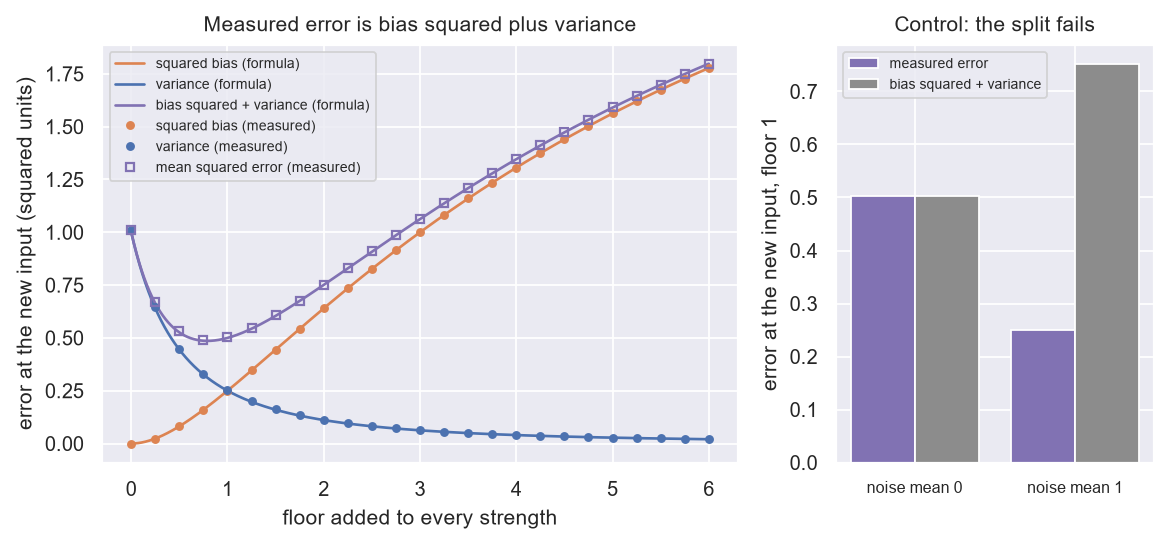
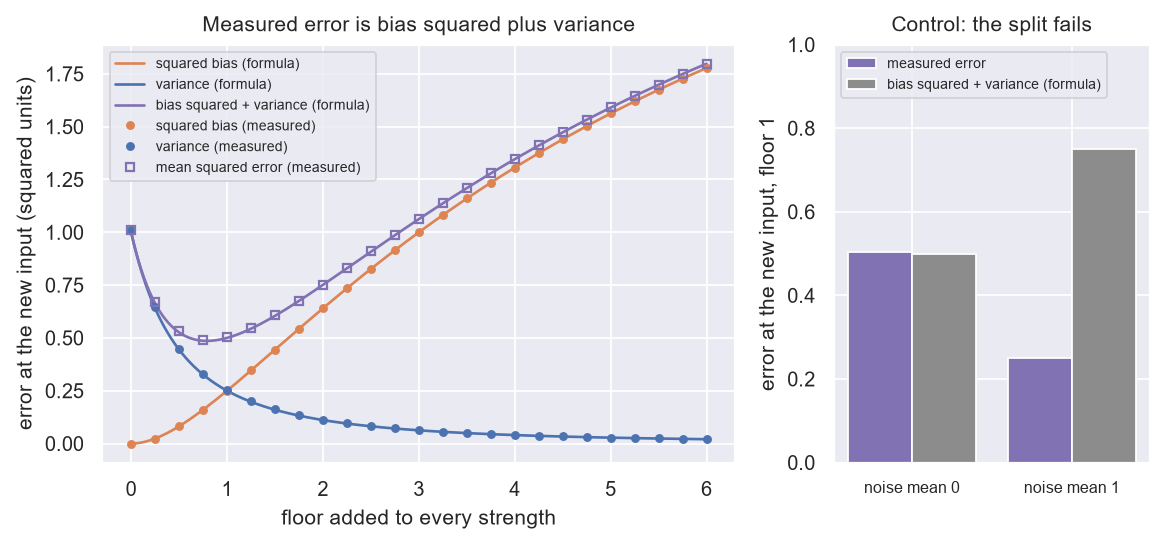
Chapter 43 notebook: fixes from the second reader; proposal updated

diff --git a/book/43-bias-and-variance.md b/book/43-bias-and-variance.md
@@ -60,7 +60,7 @@ term is `±1 / 4`, so the variance is `1 / 4² = 0.0625`. The bias grows
 down the table and the variance shrinks. Their sum falls and then rises.
 That is the old U-shaped curve, with the floor as its dial.
 
-**Measured** over 40 000 redraws of the noise, the points sit on the formula curves, and the measured error sits on the sum of bias squared and variance:
+**Measured** over 40 000 redraws of the noise, the points sit on the formula curves. The right panel compares the measured error at floor 1 with bias squared plus variance from the formulas (0.503 against 0.500), and shows the same comparison failing when the noise part has mean 0.5 (0.250 against 0.750):
 
 ![Squared bias, variance and measured error against the floor, formula curves with measured points on top, and a control where the noise has mean 1 beside the zero-mean case](figures/43-bias-plus-variance.png)
 
@@ -186,18 +186,23 @@ An experiment is evidence, not a proof.
   evidence. The measured bias below is the test.
 - **The sum.** At 25 floors from 0 to 6, with 40 000 noise draws each, the
   measured bias, variance and mean squared error stay within 0.10, 1.57 and 1.58
-  standard errors of the formulas.
+  standard errors of the formulas. The same noise draws serve all 25 floors, so
+  these 25 comparisons are correlated, not independent.
 - **The table.** Fitted, the table rows are: floor 0, bias `−0.0005`, variance
   `1.0112`, error `1.0112`. Floor 1: `−0.5003`, `0.2528`, `0.5031`. Floor 3:
   `−1.0001`, `0.0632`, `1.0635`. All are within 4 standard errors of the
   values the formulas give in the table above (from the formula, not measured).
 - **The U.** The measured error is 1.011 at floor 0, 0.490 at its minimum, and
   1.799 at floor 6. The measured minimum is at floor 0.75 on the grid, and the
-  formulas put it at 0.791.
+  formulas put it at 0.791. The notebook also checks that the measured squared
+  bias does not fall and the measured variance does not rise as the floor
+  rises, up to 4 standard errors of slack, and both hold.
 - **Control.** With noise of mean 1 along the noise direction, the noise part has
-  measured mean 0.5014 (0.5000 from the formulas). The error is 0.2495 while
-  bias squared plus the mean square of the noise part is 0.7509. The gap
-  `−0.5014` is the cross term `2 × bias × mean`, `−0.5000` from the formulas.
+  measured mean 0.5014 (0.5000 from the formulas), and the measured error is
+  0.2495 against 0.2500 from `(bias + m)^2 + variance`. The chapter's sum,
+  bias squared plus the mean square of the noise part, is 0.7509. That the gap
+  `−0.5014` equals `2 × bias × measured mean` is algebra, by construction, and is
+  not evidence.
 
 The noise is laid along the single noise direction, as the chapter assumes.
 Run it with

diff --git a/book/proposals/proposal-20261117.md b/book/proposals/proposal-20261117.md
@@ -4582,11 +4582,10 @@ chapter 34 are fixed. This was a self-audit, not a second reader.
 
 Still owed:
 
-- **A second reader.** Done for chapters 16 to 20, 22, 24, 26, 28, 30, 31, 34, 39 and 44
-  (one review of six notebooks and two of four). Every review found checks that cannot fail
-  still counted as evidence, also after the self-audit, and the helpers fixed them. Not yet
-  read by a second reader: chapters 14, 15, 21, 23, 25, 27, 29, 32, 33, 35 to 38, 40 to 43
-  and 45 to 47. Expect the same fault there. One reviewer for four chapters, then the fixes
+- **A second reader.** Done for chapters 16 to 20, 22, 24, 26, 28, 30 to 32, 34, 39, 43 and
+  44 (four reviews). Every review found checks that cannot fail still counted as evidence,
+  also after the self-audit, and the helpers fixed them. Not yet read by a second reader:
+  chapters 14, 15, 21, 23, 25, 27, 29, 33, 35 to 38, 40 to 42 and 45 to 47. Expect the same fault there. One reviewer for four chapters, then the fixes
   one helper at a time, costs about 8% of a 5-hour window on the Pro plan.
 - The `[PASS]` counts quoted in commit messages before the audit are out of date. The
   notebooks' stored output is the record.
